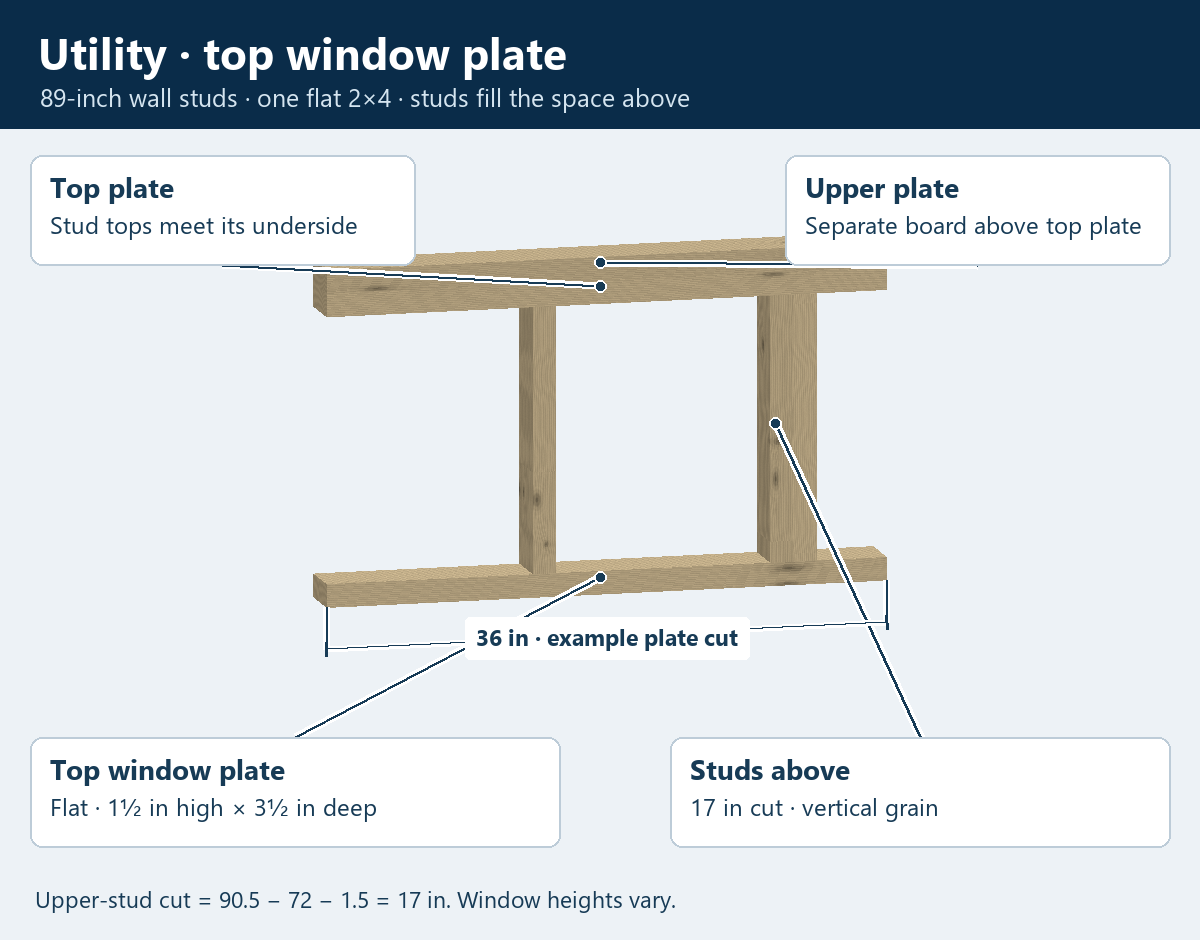
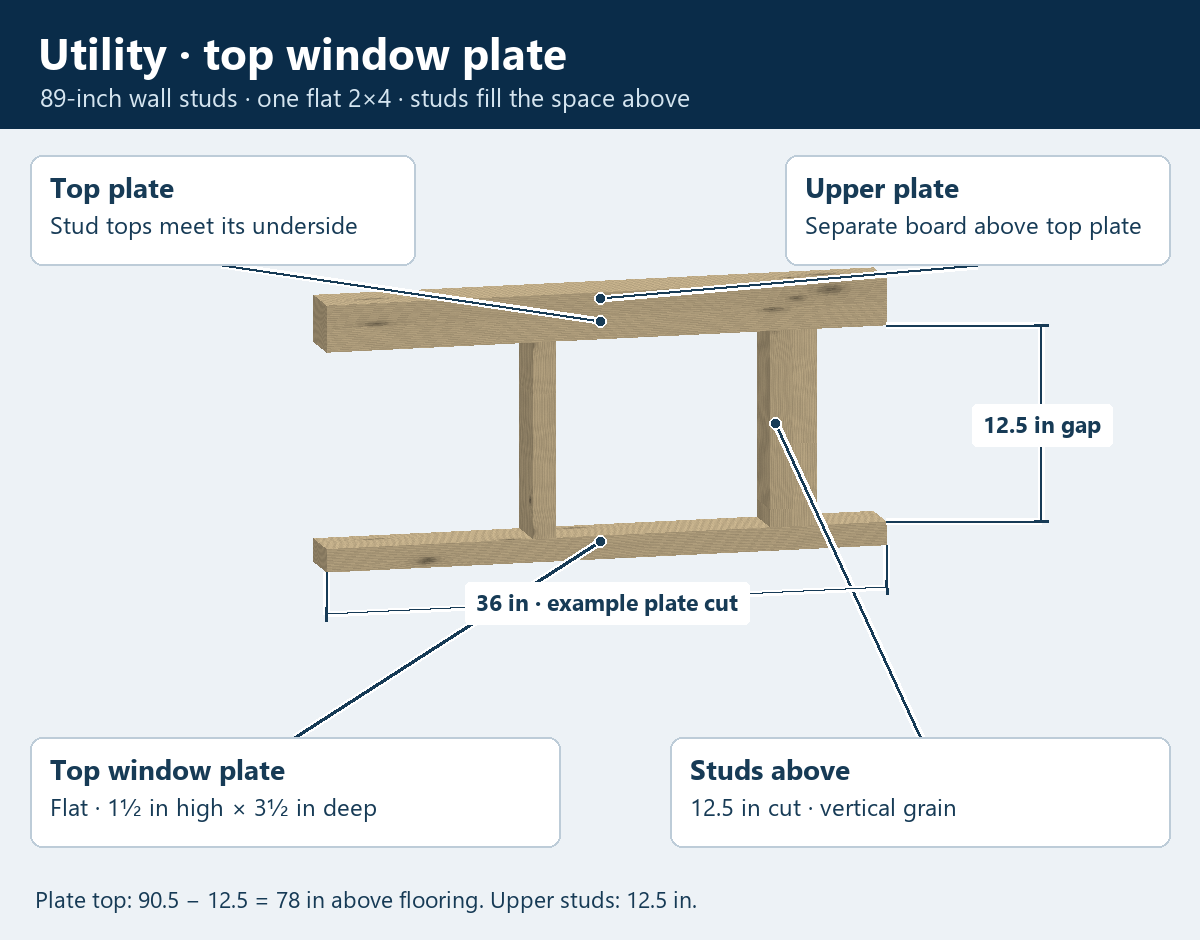
Record utility window spacing and roof stock rules

diff --git a/utility-framing.html b/utility-framing.html
@@ -19,19 +19,20 @@
   <p>Your utility wall studs cut to <strong>89 inches</strong>. The <strong>top window plate</strong> is one <strong>flat 2×4</strong>, with studs filling the space above it. Fill space above other framed openings with studs too.</p>
   <nav aria-label="Lesson navigation"><a href="#window">Top window plate</a><a href="#roof">A-frame roof</a><a href="doorway-framing.html?wall=utility#rotate">Rotate utility doorway</a><a href="walls.html">Lofted wall lesson</a></nav>
   <h2 id="window">Top window plate and studs above</h2>
-  <figure><a href="images/utility-window-top.png"><img src="images/utility-window-top.png" width="1200" height="940" alt="Utility window detail: a flat 2x4 top window plate with 17-inch studs above it, meeting the wall's top plate. The upper plate is a separate board above the top plate."></a><figcaption>Example plate cut: 36 inches. Its underside is 72 inches above flooring. With 89-inch wall studs and a 1½-inch bottom plate, the short studs above cut to 17 inches. Tap to enlarge.</figcaption></figure>
+  <figure><a href="images/utility-window-top.png"><img src="images/utility-window-top.png" width="1200" height="940" alt="Utility window detail: 12½ inches from the bottom of the wall top plate to the top of the flat top window plate, with 12½-inch studs above it."></a><figcaption>Your spacing: <strong>12½ inches from the bottom of the top plate to the top of the window top plate</strong>. The short studs cut to 12½ inches. The example plate cuts to 36 inches; its top is 78 inches and its underside is 76½ inches above flooring. Tap to enlarge.</figcaption></figure>
   <h2>Rotate and change the example</h2><p class="hint">Drag to turn; pinch or use + / − to zoom. The picture above works on your phone even when 3D is unavailable.</p>
   <div class="stage"><canvas id="utility-canvas" tabindex="0" aria-label="Rotatable utility top window plate. Arrow keys turn; plus and minus zoom."></canvas></div>
   <div id="utility-controls" hidden>
     <div class="controls"><button id="utility-front" type="button">Front view</button><button id="utility-angle" type="button">Angle view</button><button id="utility-in" type="button" aria-label="Zoom in">+</button><button id="utility-out" type="button" aria-label="Zoom out">−</button></div>
     <form id="utility-form"><label for="plate-cut">Top window plate cut (inches)</label><input id="plate-cut" type="number" min="1.5" step="0.25" value="36" required>
-      <label for="window-top">Window opening top above flooring (inches)</label><input id="window-top" type="number" min="1.75" step="0.25" value="72" required>
-      <p class="hint">This measures to the underside of the flat top window plate. Its cut and opening height are adjustable examples; the window's side supports are still to learn.</p><button type="submit">Apply dimensions</button></form>
+      <p class="hint">The 12½-inch spacing stays fixed as the example plate cut changes. Window side supports and the cut allowance for an opening are still to learn.</p><button type="submit">Apply dimensions</button></form>
   </div>
-  <p id="utility-status" role="status">Loading the measured utility detail…</p><p class="facts">Stud cut above top window plate: <strong id="above-cut">17 in</strong></p>
+  <p id="utility-status" role="status">Loading the measured utility detail…</p><p class="facts">Stud cut above top window plate: <strong id="above-cut">12½ in</strong></p>
   <h2>Studs above a utility doorway</h2>
   <figure><a href="images/utility-doorway.png"><img src="images/utility-doorway.png" width="1200" height="940" alt="Utility doorway: 89-inch full-height studs, 80-inch king studs on the bottom plate, a five-inch loft-style header and four-inch studs filling the gap above that header."></a><figcaption>Example: 36-inch opening, 80-inch king studs, 5-inch header, and 4-inch studs above it: 89 − 80 − 5 = 4 inches. The header cuts to 39 inches. <a href="doorway-framing.html?wall=utility#rotate">Change the doorway dimensions.</a></figcaption></figure>
   <h2 id="roof">A-frame roof / utility-style roof</h2>
+  <p class="facts" id="roof-stock">10-wide example: 2×4, actual 1½ × 3½ in.</p>
+  <p>Use <strong>2×4 for 10-wide and under</strong>, and <strong>2×6 for wider buildings</strong> (actual 1½ × 5½ inches). The truss projects <strong>4 inches past each side wall</strong>. Its end is <strong>2 inches high</strong> before the top slopes toward the peak. The bottom cut is level with the <strong>top of the side wall’s upper plate</strong>.</p>
   <label for="roof-pitch">Roof pitch</label><select id="roof-pitch"><option value="standard">Standard · 5/12</option><option value="steep">Steep · 7/12</option></select>
   <svg id="roof-diagram" viewBox="0 0 640 270" role="img" aria-label="Standard roof: five inches up for every twelve inches horizontally">
     <rect width="640" height="270" fill="white"/><polyline id="roof-outline" points="40,210 320,93.333 600,210" fill="none" stroke="#203f4d" stroke-width="8" stroke-linejoin="round"/>
@@ -39,5 +40,5 @@
     <text x="128" y="243" fill="#203f4d" font-size="19">12 in horizontal run</text><text id="pitch-rise-label" x="342" y="196" fill="#203f4d" font-size="19">5 in rise</text>
   </svg><p id="pitch-description">Standard 5/12: 5 inches up for every 12 inches horizontally.</p>
   <p>For any horizontal distance, <strong>rise = horizontal run × pitch rise ÷ 12</strong>. Over a 60-inch horizontal run, 5/12 rises 25 inches and 7/12 rises 35 inches.</p>
-  <p class="note">The pitch diagram explains the slope. Rafter stock, roof overhang, seating and joints still need your shop measurements before we make roof cuts. The opening previews continue the current wall layout above the openings; those exact short-stud positions remain to check.</p>
+  <p class="note">The diagram explains pitch. We have your stock sizes, side overhang and end height; the exact bottom-cut shape and roof joints are still being fitted. The opening previews continue the current wall layout above the openings; those exact short-stud positions remain to check.</p>
 </main><script type="module" src="ui/learn-utility.js"></script></body></html>

diff --git a/model/utility-study.js b/model/utility-study.js
@@ -1,5 +1,6 @@
 /* Opt-in utility lesson. Explicit shop rules do not replace the loft lesson
-   or alter the ordinary designer. Window heights and plate cuts vary. */
+   or alter the ordinary designer. Window placement follows the shop gap;
+   plate cuts and explicitly selected gap-study overrides can vary. */
 import {deepFreeze} from "./company.js";
 import {floorStudyPlan} from "./floor-study.js";
 import {wallStudyPlan} from "./wall-study.js";
@@ -27,27 +28,32 @@ export function utilityWallStudyPlan(plan,{wall="end"}={}) {
   return deepFreeze(result);
 }
 
-export function utilityWindowStudyPlan(plan,{lengthIn,openingTopAboveFloorIn}={}) {
+export function utilityWindowStudyPlan(plan,{lengthIn,gapAboveIn}={}) {
   const raw=plan.construction?.utilityStudy?.windowTopPlate,wall=plan.wallStudy;
   if(!raw || wall?.style!=="utility" || wall.wall!=="end")throw new Error("Use the measured utility end-wall lesson.");
   const t=positive(raw.thicknessIn,"top window plate thickness"),d=positive(raw.depthIn,"plate depth");
-  positive(lengthIn,"plate cut");positive(openingTopAboveFloorIn,"window-top height");
+  positive(lengthIn,"plate cut");
+  if(raw.gapDatum!=="top-plate-bottom-to-window-plate-top")throw new Error("Confirm the top window plate gap datum.");
+  const gap=gapAboveIn===undefined?positive(raw.gapAboveIn,"shop window-plate gap"):gapAboveIn;
+  if(!Number.isFinite(gap)||gap<0)throw new Error("Use a nonnegative gap above the top window plate.");
   if(raw.orientation!=="flat" || raw.studsAbove!==true || Math.abs(d-wall.stud.depthIn)>1e-8
     || Math.abs(t-wall.stud.widthIn)>1e-8 || lengthIn>wall.frameRange.lengthFt*12 || lengthIn<=t)
     throw new Error("The flat 2x4 top window plate must match and fit the utility wall.");
   const center=(wall.floorBounds.x0Ft+wall.floorBounds.x1Ft)/2;
   const x0Ft=center-lengthIn/24,x1Ft=center+lengthIn/24;
-  const bottomYFt=wall.baseYFt+openingTopAboveFloorIn/12,topYFt=bottomYFt+t/12;
+  const topYFt=wall.studTopYFt-gap/12,bottomYFt=topYFt-t/12;
+  const openingTopAboveFloorIn=(bottomYFt-wall.baseYFt)*12;
   if(bottomYFt<=wall.bottomPlateTopYFt || topYFt>wall.studTopYFt+1e-8)
     throw new Error("That window-top height and plate must fit below the wall's top plate.");
   const gapIn=(wall.studTopYFt-topYFt)*12;
   const studs=gapIn>1e-8?openingStudLayout(plan,x0Ft,x1Ft):[];
   if(gapIn>1e-8 && !studs.length)throw new Error("Choose a plate cut that covers a wall stud mark.");
   const copy=structuredClone(plan);
-  copy.utilityWindowStudy={nominal:raw.nominal,lengthIn,openingTopAboveFloorIn,x0Ft,x1Ft,bottomYFt,topYFt,
+  copy.utilityWindowStudy={nominal:raw.nominal,lengthIn,gapAboveIn:gap,gapDatum:raw.gapDatum,openingTopAboveFloorIn,x0Ft,x1Ft,bottomYFt,topYFt,
     studTopYFt:wall.studTopYFt,thicknessFt:t/12,depthFt:d/12,outsideZFt:wall.floorBounds.z0Ft,studs,
     status:{section:"confirmed",orientation:"confirmed",studsAbove:"confirmed",layout:"provisional-wall-layout",
-      length:"illustrative-input",openingHeight:"illustrative-input",sideSupports:"unconfirmed"}};
+      length:"illustrative-input",gap:gapAboveIn===undefined?"confirmed-shop-rule":"explicit-study-override",
+      openingHeight:"derived-from-gap",sideSupports:"unconfirmed"}};
   return deepFreeze(copy);
 }
 
@@ -83,4 +89,19 @@ export function utilityRoofPitch(plan,mode="standard",runIn=12) {
   return {name:raw.name,mode,rise,run,horizontalRunIn:runIn,riseIn:runIn*rise/run,
     angleDeg:Math.atan(rise/run)*180/Math.PI,slopeLengthIn:Math.hypot(runIn,runIn*rise/run),
     scope:"pitch-geometry-only"};
+}
+
+/* Sales width selects stock; actual wall width remains a separate input. */
+export function utilityRoofRule(plan,nominalWidthFt=Number(String(plan.state?.size).split("x")[0])) {
+  const raw=plan.construction?.utilityStudy?.roof;
+  if(raw?.shape!=="a-frame")throw new Error("Use the learned utility A-frame roof settings.");
+  positive(nominalWidthFt,"nominal building width");
+  const threshold=positive(raw.stock?.thresholdNominalWidthFt,"roof stock threshold");
+  const stock=raw.stock[nominalWidthFt<=threshold?"atOrBelow":"above"];
+  positive(stock?.thicknessIn,"roof stock thickness");positive(stock?.depthIn,"roof stock depth");
+  if(stock.thicknessIn>=stock.depthIn || raw.bottomCutDatum!=="side-wall-upper-plate-top")
+    throw new Error("Confirm the utility roof stock and upper-plate bottom-cut datum.");
+  return {name:raw.name,nominalWidthFt,stock:{...stock},
+    overhangEachSideIn:positive(raw.overhangEachSideIn,"side overhang"),
+    tipHeightIn:positive(raw.tipHeightIn,"truss end height"),bottomCutDatum:raw.bottomCutDatum};
 }

diff --git a/ui/learn-utility.js b/ui/learn-utility.js
@@ -3,7 +3,7 @@
 import {loadCatalogue} from "./load.js";
 import {defaults} from "../model/design.js";
 import {makePlan} from "../model/plan.js";
-import {utilityWallStudyPlan,utilityWindowStudyPlan,utilityWindowMeasurements,utilityWindowDrawing,utilityRoofPitch} from "../model/utility-study.js";
+import {utilityWallStudyPlan,utilityWindowStudyPlan,utilityWindowMeasurements,utilityWindowDrawing,utilityRoofPitch,utilityRoofRule} from "../model/utility-study.js";
 import {woodFinish,installFloorWood} from "./learn-wood.js";
 import {createRenderer} from "../engine/renderer.js";
 import {distToFit} from "./parts-gallery.js";
@@ -13,6 +13,8 @@ const api={ready:false,error:null,measurements:null};window.utilityLesson=api;
 async function start() {
   const cat=await loadCatalogue("learning-side-loft"),base=makePlan(defaults(cat),cat),wall=utilityWallStudyPlan(base);
   const raw=cat.construction.utilityStudy;
+  const roof=utilityRoofRule(base);api.roofRule=roof;
+  get("roof-stock").textContent=`${roof.nominalWidthFt}-wide example: ${roof.stock.nominal}, actual ${roof.stock.thicknessIn} × ${roof.stock.depthIn} in.`;
   function pitch() {
     const p=utilityRoofPitch(base,get("roof-pitch").value),peak=210-280*p.rise/p.run;
     get("roof-outline").setAttribute("points",`40,210 320,${peak} 600,210`);
@@ -33,7 +35,7 @@ async function start() {
     cam.dist=Math.max(1.1,distToFit(box,cam.yaw,cam.pitch,size())*zoom);cam.fitDist=cam.dist;renderer.draw();
   }
   function rebuild() {
-    const plan=utilityWindowStudyPlan(wall,{lengthIn:get("plate-cut").valueAsNumber,openingTopAboveFloorIn:get("window-top").valueAsNumber});
+    const plan=utilityWindowStudyPlan(wall,{lengthIn:get("plate-cut").valueAsNumber});
     const m=utilityWindowMeasurements(plan),records=m.members;
     const next=Object.fromEntries(["x","y","z"].flatMap(a=>[
       [a+"0",Math.min(...records.map(r=>r.bounds[a+"0Ft"]))],
@@ -46,7 +48,7 @@ async function start() {
     status.textContent=`Top window plate: ${m.study.lengthIn} in cut, flat 1½ × 3½ in. ${m.studMembers.length} studs above, ${Number(m.studLengthIn.toFixed(3))} in long. Wall studs: 89 in.`;
     get("above-cut").textContent=Number(m.studLengthIn.toFixed(3))+" in";
   }
-  get("plate-cut").value=raw.examplePlateCutIn;get("window-top").value=raw.exampleWindowTopAboveFloorIn;rebuild();
+  get("plate-cut").value=raw.examplePlateCutIn;rebuild();
   get("utility-controls").hidden=false;
   get("utility-form").addEventListener("submit",event=>{event.preventDefault();try{rebuild();}catch(error){status.textContent=error.message+" Previous drawing retained.";}});
   get("utility-front").addEventListener("click",()=>{cam.yaw=Math.PI;cam.pitch=0;zoom=1;draw();});

diff --git a/tools/render-joist-picture.py b/tools/render-joist-picture.py
@@ -205,7 +205,8 @@ def render_utility():
         stud=m['studMembers'][len(m['studMembers'])//2]
         leader(d,project(stud['center']),(670,737,500,110),'Studs above',[f"{m['studLengthIn']:g} in cut · vertical grain"])
         dimension(d,project,[s['x0Ft'],s['bottomYFt'],z],[s['x1Ft'],s['bottomYFt'],z],f"{s['lengthIn']:g} in · example plate cut",(0,42))
-        d.text((35,883),f"Upper-stud cut = {m['topPlateBottomAboveFloorIn']:g} − {s['openingTopAboveFloorIn']:g} − {s['thicknessFt']*12:g} = {m['studLengthIn']:g} in. Window heights vary.",font=font(23),fill=NAVY)
+        dimension(d,project,[s['x0Ft'],s['topYFt'],z],[s['x0Ft'],s['studTopYFt'],z],f"{s['gapAboveIn']:g} in gap",(155,0))
+        d.text((35,883),f"Plate top: {m['topPlateBottomAboveFloorIn']:g} − {s['gapAboveIn']:g} = {s['openingTopAboveFloorIn']+s['thicknessFt']*12:g} in above flooring. Upper studs: {m['studLengthIn']:g} in.",font=font(23),fill=NAVY)
         im.save(ROOT/'images/utility-window-top.png')
     else:
         m=data['metadata']['doorway'];s=m['study'];z=s['outsideZFt'];bottom=m['plateMembers'][0]['bounds']

diff --git a/.agents/skills/utility-framing/SKILL.md b/.agents/skills/utility-framing/SKILL.md
@@ -11,11 +11,21 @@ the utility lesson distinct from the learned lofted wall.
 - Utility wall **stud cut length is 89 in**. It is not total wall height.
 - **Top window plate** is one flat 2x4: actual 1.5 in tall, 3.5 in deep
   through the wall. Put studs in the space above it to the top plate.
+- Its **top** is **12.5 in below the bottom of the wall top plate**.
+  These are the two tape datums. Upper studs cut to 12.5 in; do not
+  subtract the window plate thickness from this gap again.
 - Fill empty space above any framed opening with studs, including above a
   utility doorway header. Do not draw zero-height studs when it meets the plate.
 - Roof name: **A-frame roof**, also **utility-style roof**. Standard pitch
   is **5/12**; steep is **7/12**. The denominator is horizontal run, not
   distance along the sloping board. Rise = horizontal run × rise/run ratio.
+- Roof stock follows the **nominal sales width**: **10-wide and under
+  use 2x4** (actual 1.5 x 3.5); wider uses **2x6** (actual 1.5 x 5.5).
+  Actual building width is a separate geometry input (12-wide is 134 in).
+- Roof projects **4 in beyond each side wall**; its outer end is **2 in
+  high** before the top slopes to the peak. The bottom cut is level with
+  the **top of the side wall's upper plate**. Exact seat shape is pending
+  fit confirmation; do not quietly borrow the lofted truss tail.
 
 Read [shared measurements](../shed-measurements/SKILL.md),
 [utility top window plate](../../../.claude/skills/part-utility-window-frame/SKILL.md),
@@ -29,8 +39,10 @@ confirmation alone does not confirm every construction detail for this style.
 
 With the current 1.5 in bottom plate, top-plate underside is `1.5+89=90.5`
 in above flooring. Three flat plates give total `89+3×1.5=93.5` in.
-For window opening top `U` above flooring, short upper-stud cut is
-`90.5 - (U+1.5)`. For king cut `K` and chosen header height `H`, the
+Window-plate top is `90.5 - 12.5 = 78 in` above flooring; its underside
+is `78 - 1.5 = 76.5 in`. In general use `topPlate.bottom - gap` for
+window-plate top, then subtract actual thickness for its underside.
+For king cut `K` and chosen header height `H`, the
 upper-stud cut is `89-K-H`. These are formulas; window/door dimensions vary.
 Keep plate cut independent until window side supports/bearing are taught.
 
@@ -40,7 +52,9 @@ Alan's shorter **king stud** to the legacy code's king/jack terminology.
 Choose the doorway header separately using the learned doorway arrangements.
 For a 60 in horizontal run, 5/12 rises 25 in and 7/12 rises 35 in. These
 are pitch calculations, not confirmed peak elevations or fabrication cuts;
-rafter stock, bearing span, overhang, seat and joints remain to learn.
+peak datum, complete seat shape and joints remain to learn.
+`utilityRoofRule` selects confirmed stock/projection/end height independently
+of the pitch-only diagram. Preserve the named width even when actual width differs.
 
 The phone lesson is [utility-framing.html](../../../utility-framing.html),
 with an adjustable window detail, exact-mesh PNGs and a pitch diagram.

diff --git a/.claude/skills/part-utility-window-frame/SKILL.md b/.claude/skills/part-utility-window-frame/SKILL.md
@@ -26,19 +26,21 @@ bearing and cut-to-opening-width allowances remain unconfirmed.
 ## Construction settings
 
 Read `construction.utilityStudy.windowTopPlate` and the current wall
-stock. Select sample plate cut `C` and opening-top elevation `U` above
-flooring independently. The plate's underside is the opening top.
+stock. Select sample plate cut `C`; position its top **12.5 in below the
+bottom of the wall top plate**. The plate's underside is the opening top.
 
-- Top window plate bottom = `flooring.top + U`.
-- Plate top = `plate.bottom + actual thickness`.
+- Top window plate top = `wall.topPlate.bottom - gapAboveIn`.
+- Plate bottom = `plate.top - actual thickness`.
 - Short upper stud bottom = top window plate top.
 - Short upper stud top = wall top-plate underside.
 - Short stud cut = `topPlate.bottom - windowTopPlate.top`.
 
 For the current 89 in wall studs and 1.5 in bottom plate, top-plate
-underside is 90.5 in above flooring. A 72 in opening-top example gives
-`90.5 - 72 - 1.5 = 17 in` upper studs. The sample plate cut is 36 in;
-both are illustrative, not fixed product/window dimensions.
+underside is 90.5 in above flooring. Plate top is `90.5 - 12.5 = 78 in`;
+underside is `78 - 1.5 = 76.5 in`. Upper studs cut to **12.5 in**.
+The sample plate cut is 36 in and remains illustrative. The gap is a
+confirmed shop rule independent of window width. An explicit API
+`gapAboveIn` override is marked a study override, not confirmed product data.
 
 ## Kept quirks
 
@@ -56,7 +58,8 @@ finished geometry stay unchanged; only this lesson opts into the assembly.
 ## The owner's facts
 
 Alan specified 89-inch utility wall studs, a flat top window plate with
-studs above it, and studs wherever there is space above framed openings.
+studs above it, the 12.5-inch bottom-of-top-plate to top-of-window-plate
+gap, and studs wherever there is space above framed openings.
 He separately supplied standard 5/12 and steep 7/12 A-frame roof pitch.
 
 ## How to change it safely
@@ -74,5 +77,6 @@ for formulas. Refresh pictures with `node tools/export-utility.mjs` then
 ## Checks that guard it
 
 `node tools/check-utility-framing.mjs` validates contacts, actual sections,
-variable heights/cuts, no overlaps, no zero-length studs and roof pitch
+default gap/derived elevations, variable cuts and explicit gap overrides,
+no overlaps, no zero-length studs and roof pitch
 calculations. Also run company/skill validation and the required fast suite.

diff --git a/README.md b/README.md
@@ -28,9 +28,11 @@ company that only wants the designer.
 
 For Alan, in plain words: [docs/FOR-ALAN.md](docs/FOR-ALAN.md).
 Latest lesson: [utility framing](utility-framing.html), with 89-inch wall
-studs, a flat top window plate and studs filling space above openings.
+studs, a flat top window plate 12.5 inches below the wall top plate,
+and studs filling space above openings.
 The [utility skill](.agents/skills/utility-framing/SKILL.md) records those
-rules and standard 5/12 / steep 7/12 A-frame roof pitch.
+rules, standard 5/12 / steep 7/12 A-frame pitch, roof stock by sales width,
+4-inch side overhang and 2-inch truss end height.
 The preceding lesson: [doorway framing](doorway-framing.html), with three
 adjustable header arrangements, labeled phone pictures and
 [a reusable skill](.claude/skills/part-doorway-frame/SKILL.md).
@@ -262,7 +264,7 @@ Chromium's software graphics, each on its own port.
 | `check-window-header.mjs` | no | learned loft header section, outside ledge, top-plate contact, variable cut lengths and unchanged surface geometry |
 | `check-window-plate.mjs` | no | flat plate, support contact at both ends, retained wall layout, variable window-height cuts and vertical grain |
 | `check-doorway.mjs` | no | shop king-stud terms, header bearing, variable opening cuts, three arrangements, wall-height reuse and fit rejection |
-| `check-utility-framing.mjs` | no | 89-inch utility studs, flat top window plate, variable short studs above openings, real contacts and horizontal-run roof pitch |
+| `check-utility-framing.mjs` | no | 89-inch utility studs, confirmed 12.5-inch window-plate gap and derived elevations, real opening contacts, roof stock by sales width and horizontal-run pitch |
 | `check-look.mjs` | yes | the 24 finished pictures recorded from Barnwright, pixel for pixel; true colour changes the colour and nothing else; a rebuild stays inside its time budget |
 | `check-golden-labels.mjs` | yes | the part label on every recorded triangle, proved a second, independent way |
 | `check-engine.mjs` | yes | the drawing kit, the maths, the camera fit, the 11 textures and five whole pictures match Barnwright's own page, byte for byte |

diff --git a/.agents/skills/shed-measurements/SKILL.md b/.agents/skills/shed-measurements/SKILL.md
@@ -107,9 +107,12 @@ rules. Utility studs cut to **89 in**; the lofted stud cut stays 75 in.
 With the current three 1.5 in plates, utility wall height is a derived
 **93.5 in above flooring**. Plate count/corners are carried preview rules.
 The **top window plate** is one flat 2x4 with studs above it, separate
-from the lofted window's three-board header. For opening-top elevation
-`U` above flooring, upper studs cut to `bottomPlate.thickness + 89 - U - 1.5`.
-Keep window plate cut and opening height variable; side-support allowances
+from the lofted window's three-board header. Its **top is 12.5 in below
+the bottom of the wall top plate**; upper studs cut to 12.5 in.
+With the current bottom plate, window-plate top is `90.5-12.5=78 in`
+above flooring; its underside is `78-1.5=76.5 in`. Do not measure the
+12.5-inch gap to the window plate underside or subtract its thickness again.
+Keep window plate cut variable; side-support allowances
 are not yet taught. Upper-stud grid reuse remains provisional.
 
 An **A-frame roof / utility-style roof** uses standard **5/12** or steep
@@ -117,7 +120,11 @@ An **A-frame roof / utility-style roof** uses standard **5/12** or steep
 `slope length = hypot(horizontalRun, rise)` and angle is `atan(pitch/12)`.
 A 60 in horizontal run rises 25 or 35 in. Horizontal run is not the
 sloping board length; these calculations do not establish rafters' long
-points, bearing datum, overhang, seats, joints or complete roof cut lengths.
+points, seats, joints or complete roof cut lengths. Stock uses the sales
+width: at or below 10-wide use actual 1.5 x 3.5 in (2x4); above 10-wide
+use actual 1.5 x 5.5 in (2x6). Each side projection is 4 in beyond the
+outside wall, and outer-end height is 2 in. The bottom cut is level with
+the side-wall upper-plate top. Complete seat shape remains to confirm.
 
 ## Gable window box measurements
 

diff --git a/docs/BUILDING-TERMS.md b/docs/BUILDING-TERMS.md
@@ -5,14 +5,16 @@
 | Alan's term | Agreed rule |
 | --- | --- |
 | **Utility wall stud** | Cut length **89 in**. With the current three flat 1.5 in plates, derived wall height is 93.5 in above flooring. |
-| **Top window plate** | One **flat 2x4** above the utility window, actual 1.5 in tall × 3.5 in deep. Studs fill the space above it to the wall's top plate. |
+| **Top window plate** | One **flat 2x4** above the utility window, actual 1.5 in tall × 3.5 in deep. Its top is **12.5 in below the bottom of the wall top plate**, with 12.5-inch studs filling that gap. |
 | **Studs above a framed opening** | Fill positive empty space, including above a utility door header. Preview positions follow the current wall grid; exact layout is provisional. |
 | **A-frame roof / utility-style roof** | Two sloping sides meet at the peak. Standard pitch **5/12**, steep pitch **7/12**. |
 | **Roof pitch** | Rise per **horizontal run**: 7/12 means 7 in up for every 12 in horizontally; 5/12 means 5 in up for every 12 in horizontally. |
+| **Utility roof stock** | **10-wide and under: 2x4**, actual 1.5 × 3.5 in; **wider: 2x6**, actual 1.5 × 5.5 in. Select by sales width. |
+| **Utility truss end** | **4 in** beyond each side wall; **2 in** high before the top slopes to the peak. Bottom cut level with the side-wall upper-plate top; exact seat shape is being confirmed. |
 
 Opening dimensions vary. Utility previews carry the current wall stock,
-plate count and corners; rafter sections, roof seating and overhang cuts
-remain to learn. See [utility framing skill](../.agents/skills/utility-framing/SKILL.md)
+plate count and corners; complete roof seat shape and joints remain to learn.
+See [utility framing skill](../.agents/skills/utility-framing/SKILL.md)
 and [phone lesson](../utility-framing.html).
 
 ## Lofted truss sizes and actual building width

diff --git a/docs/ARCHITECTURE.md b/docs/ARCHITECTURE.md
@@ -334,11 +334,17 @@ reuses full-width supported wall marks; exact upper-stud layout is provisional.
 `model/utility-study.js` opts in to Alan's 89-inch utility stud cut, keeping
 the loft lesson and ordinary geometry unchanged. The new framing entry
 `utility-window-frame` reads `utilityWindowStudy`: one flat top window
-plate and studs above it. `utility-framing.html` uses exact-mesh PNGs and
+plate and studs above it. The confirmed gap is measured from the window
+plate top to the wall top-plate underside: 12.5 in. Plate top/underside
+derive to 78/76.5 in above flooring; they are not independent height defaults.
+`utility-framing.html` uses exact-mesh PNGs and
 an adjustable 3D detail; doorway framing can select utility or loft walls.
 `construction.utilityStudy.roof` records standard 5/12 and steep 7/12
 A-frame pitch. `utilityRoofPitch` computes rise from explicit horizontal
-run for the diagram, without inferring unlearned rafter stock, seating or cuts.
+run for the diagram. `utilityRoofRule` selects 2x4 at or below nominal
+10-wide, otherwise 2x6, and records 4-in side projection, 2-in end height
+and the side-wall upper-plate-top bottom-cut datum. Full seat/joint geometry
+remains separate from these confirmed inputs.
 
 `parts/openings/index.js` walks `plan.state.items` in array order exactly as
 `buildShed` calls `renderItem`: skip interior items (before `setItem`), apply

diff --git a/.claude/skills/part-roof-frame/SKILL.md b/.claude/skills/part-roof-frame/SKILL.md
@@ -13,10 +13,14 @@ per horizontal run: 7 in up for each 12 in across. Use the actual ratio,
 not distance along the slope or a lofted-roof angle. Read
 [utility framing](../../../.agents/skills/utility-framing/SKILL.md).
 `utilityRoofPitch` calculates rise/angle/slope for an explicit horizontal
-run and drives the diagram in `utility-framing.html`. It is pitch geometry
-only: rafter stock, bearing span/datum, overhang, seats and joints remain
-to learn. Do not replace the ordinary roof or fabricate a cut list from
-the diagram. The lofted truss size table remains a separate shop rule.
+run and drives the diagram in `utility-framing.html`. Select roof stock
+by **nominal sales width**: 10-wide and under use 2x4 (actual 1.5 x 3.5),
+wider buildings use 2x6 (actual 1.5 x 5.5). `utilityRoofRule` keeps this
+selection separate from actual frame width. Alan specified **4 in beyond
+each side wall**, **2 in outer-end height**, and a bottom cut level with
+the **side wall's upper-plate top**. Exact seat shape and joints remain
+to confirm. Do not replace the ordinary roof or fabricate a cut list from
+the pitch diagram. The lofted truss size table remains a separate shop rule.
 
 ## Gable backing added to the learned assembly
 

diff --git a/.agents/skills/shed-customer-setup/SKILL.md b/.agents/skills/shed-customer-setup/SKILL.md
@@ -47,8 +47,11 @@ company intake. Preserve the user's selected scope and view choices.
 
 For Alan's utility style, use [utility framing](../utility-framing/SKILL.md)
 and [its phone lesson](../../../utility-framing.html): 89 in wall studs,
-one flat **top window plate**, studs filling space above openings, and
-an **A-frame roof** with 5/12 standard or 7/12 steep pitch. Preserve the
+one flat **top window plate** whose top is 12.5 in below the bottom of
+the wall top plate, studs filling space above openings, and an **A-frame
+roof** with 5/12 standard or 7/12 steep pitch. Roof stock is 2x4 through
+nominal 10-wide, then 2x6; side projection is 4 in and end height 2 in.
+Keep nominal stock selection separate from actual-width geometry. Preserve the
 lofted wall/roof rules separately; utility does not inherit its header.
 
 For Alan's doorway lesson, read
